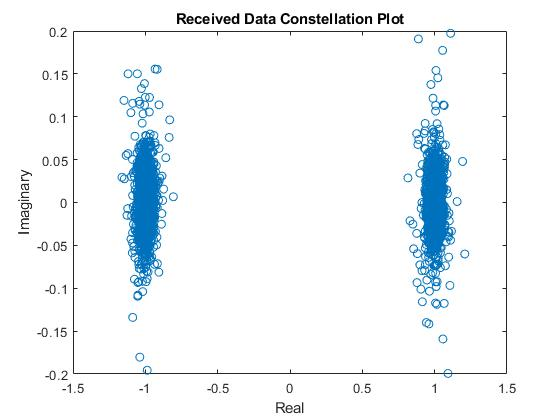
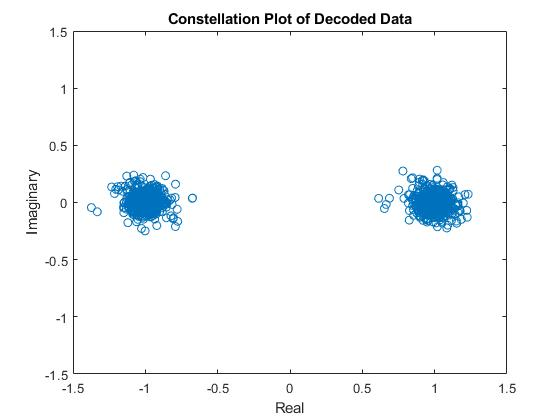
Final changes for hardware functionality

diff --git a/simulate_without_synchronized_clocks.m b/simulate_without_synchronized_clocks.m
@@ -12,7 +12,7 @@ function [output_data, error_rate] = simulate_without_synchronized_clocks(x_trai
     number_of_blocks = 100;  % Number of blocks in data sequence
     block_size = 64;         % Bits per block (not including prefix)
     prefix_size = 16;        % Prefix length in bits
-    num_train = 30;          % Number of training blocks
+    num_train = 10;          % Number of training blocks
     num_preamb_blocks = 3;   % Number of preamble blocks prior to training
 
     % Send multiple training sequences

diff --git a/package_data.m b/package_data.m
@@ -22,5 +22,5 @@ function tx_cyclic = package_data(x_train, x_data, block_size, prefix_size, num_
     % Create preamble and add it to the prepared signal
     preamb = repmat(preamb_block, 1, num_preamb_blocks);
     tx_cyclic = [preamb tx_cyclic];
-    %write_hardware_tx_file(tx_cyclic);
+    write_hardware_tx_file(tx_cyclic);
 end

diff --git a/estimate_channel.m b/estimate_channel.m
@@ -18,6 +18,7 @@ function H_K = estimate_channel(x_train, y_time, block_size, prefix_size, num_tr
 
     % Find average channel estimate
     H_K = mean(H_K_r,1);
+    
     % Skip pilots to facilitate use with hardware.
     H_K = fftshift(H_K);
     %H_K_small = [H_K(8:25) H_K(27:32) H_K(34:39) H_K(41:58)];
